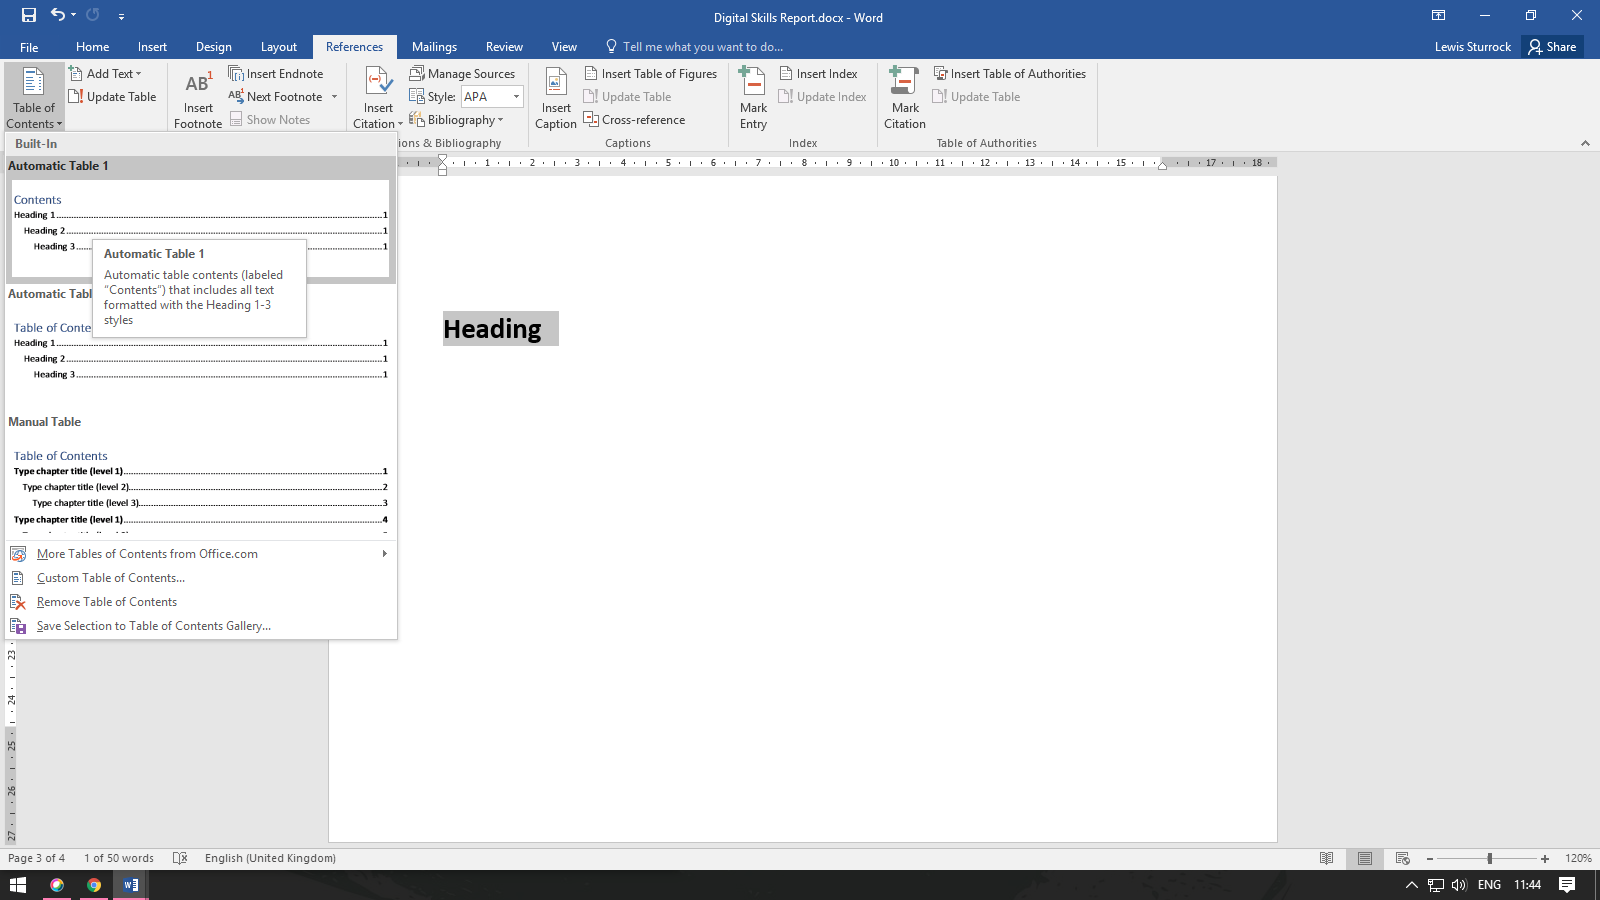
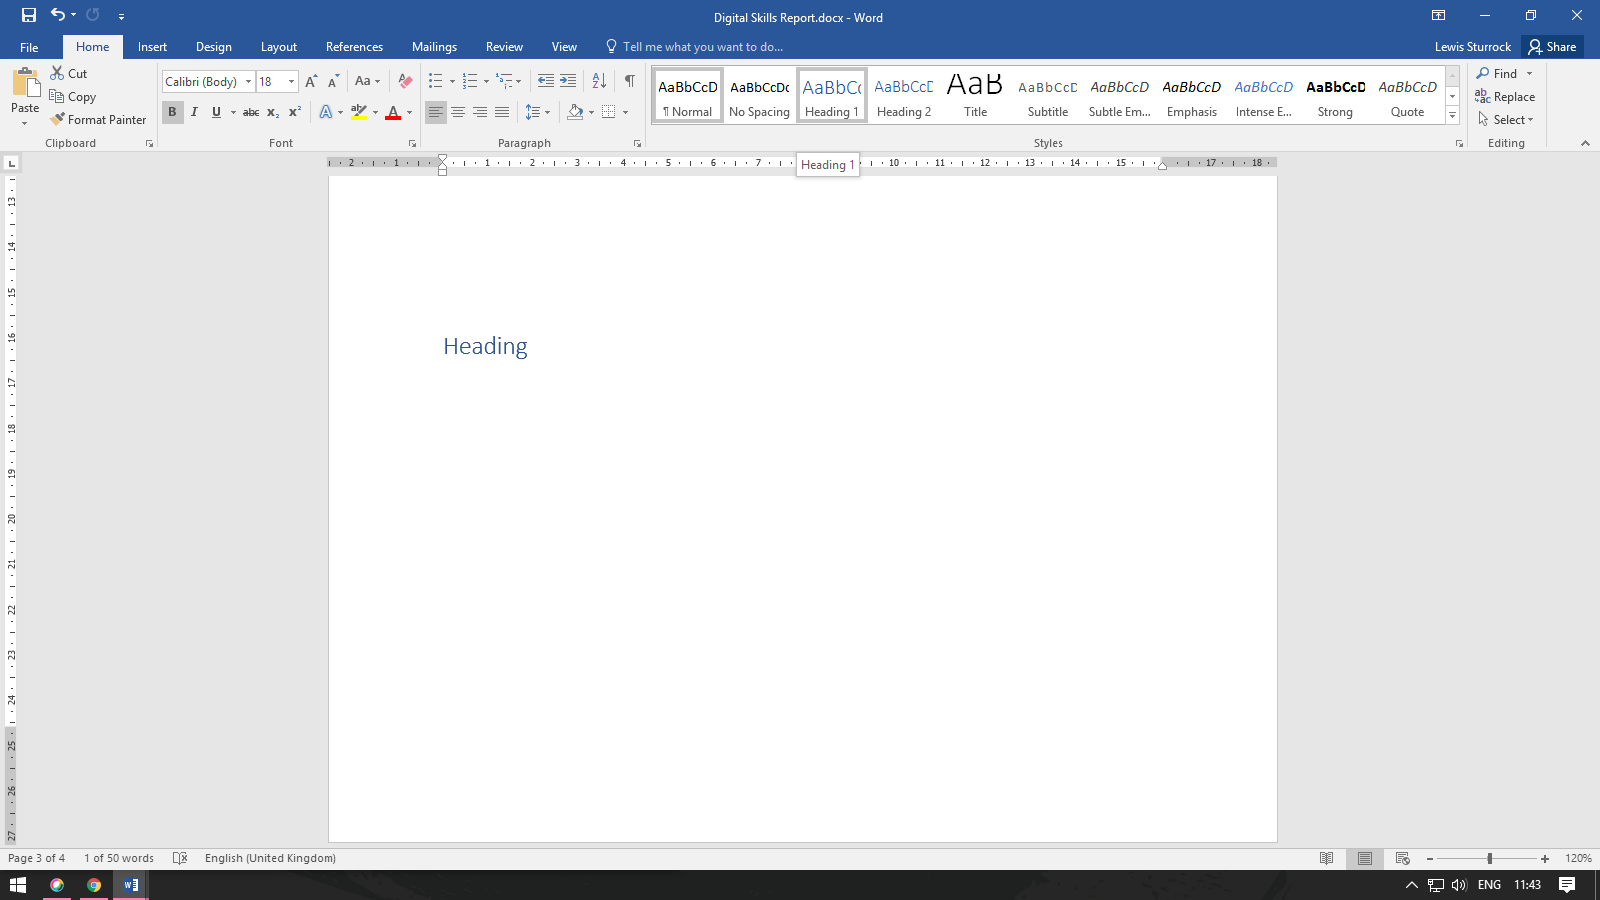
GitBook: [master] 5 pages and 6 assets modified

Changed region(s): [[0.0, 0.0311, 0.9688, 0.7156], [0.25, 0.3422, 0.375, 0.4044], [0.5938, 0.1556, 0.6562, 0.1867]]

diff --git a/core-skills/README.md b/core-skills/README.md
@@ -1,13 +1,13 @@
 # Core Skills
 
-{% file src="../.gitbook/assets/cover-sheet.doc" caption="Cover Sheet" %}
+![](../.gitbook/assets/image%20%284%29.png)
 
-As part of your Core Skills ICT class, you will produce;
+You will produce four document
 
-* a completed [Research Project Portfolio](https://tutor.neocities.org/Research%20Project%20Portfolio%20Simpler.docx)
-* a completed [Observation Portfolio](https://tutor.neocities.org/Observation%20Portfolio.docx)
-* a written Report
-* a Presentation
+* [Research Project Portfolio](https://tutor.neocities.org/Research%20Project%20Portfolio%20Simpler.docx)
+* [Observation Portfolio](https://tutor.neocities.org/Observation%20Portfolio.docx)
+* Report
+* Presentation
 
 ## Examples
 

diff --git a/hnc-computing/digital-skills.md b/hnc-computing/digital-skills.md
@@ -71,11 +71,11 @@ In order to meet the college standard you should leave a single blank page after
 
 If you highlight all of your headings and change them to 'Heading 1'
 
-![](../.gitbook/assets/image%20%284%29.png)
+![](../.gitbook/assets/image%20%285%29.png)
 
 Then you can you can select Reference, then Table of Contents from the far left - and, it will generate a table of contents for you
 
-![](../.gitbook/assets/image%20%285%29.png)
+![](../.gitbook/assets/image%20%286%29.png)
 
 ### Introduction
 

diff --git a/nc-computing-and-digital-media/level-5/semester-2/game-design.md b/nc-computing-and-digital-media/level-5/semester-2/game-design.md
@@ -75,7 +75,7 @@ Modern systems have large amounts of storage built in and also have different SD
 
 {% embed url="https://www.draw.io/" %}
 
-![](../../../.gitbook/assets/image%20%286%29.png)
+![](../../../.gitbook/assets/image%20%287%29.png)
 
 
 

diff --git a/nc-computing-and-digital-media/level-6/semester-2/games-design.md b/nc-computing-and-digital-media/level-6/semester-2/games-design.md
@@ -78,7 +78,7 @@ Modern systems have large amounts of storage built in and also have different SD
 
 {% embed url="https://www.draw.io/" %}
 
-![](../../../.gitbook/assets/image%20%286%29.png)
+![](../../../.gitbook/assets/image%20%287%29.png)
 
 
 

diff --git a/README.md b/README.md
@@ -1,10 +1,10 @@
 # Home
 
-## Welcome
-
-This is the homepage for Lewis's Digital Resources
-
 Please select your class on the left of the screen
 
-## 
+![](.gitbook/assets/image%20%288%29.png)
+
+
+
+
 
